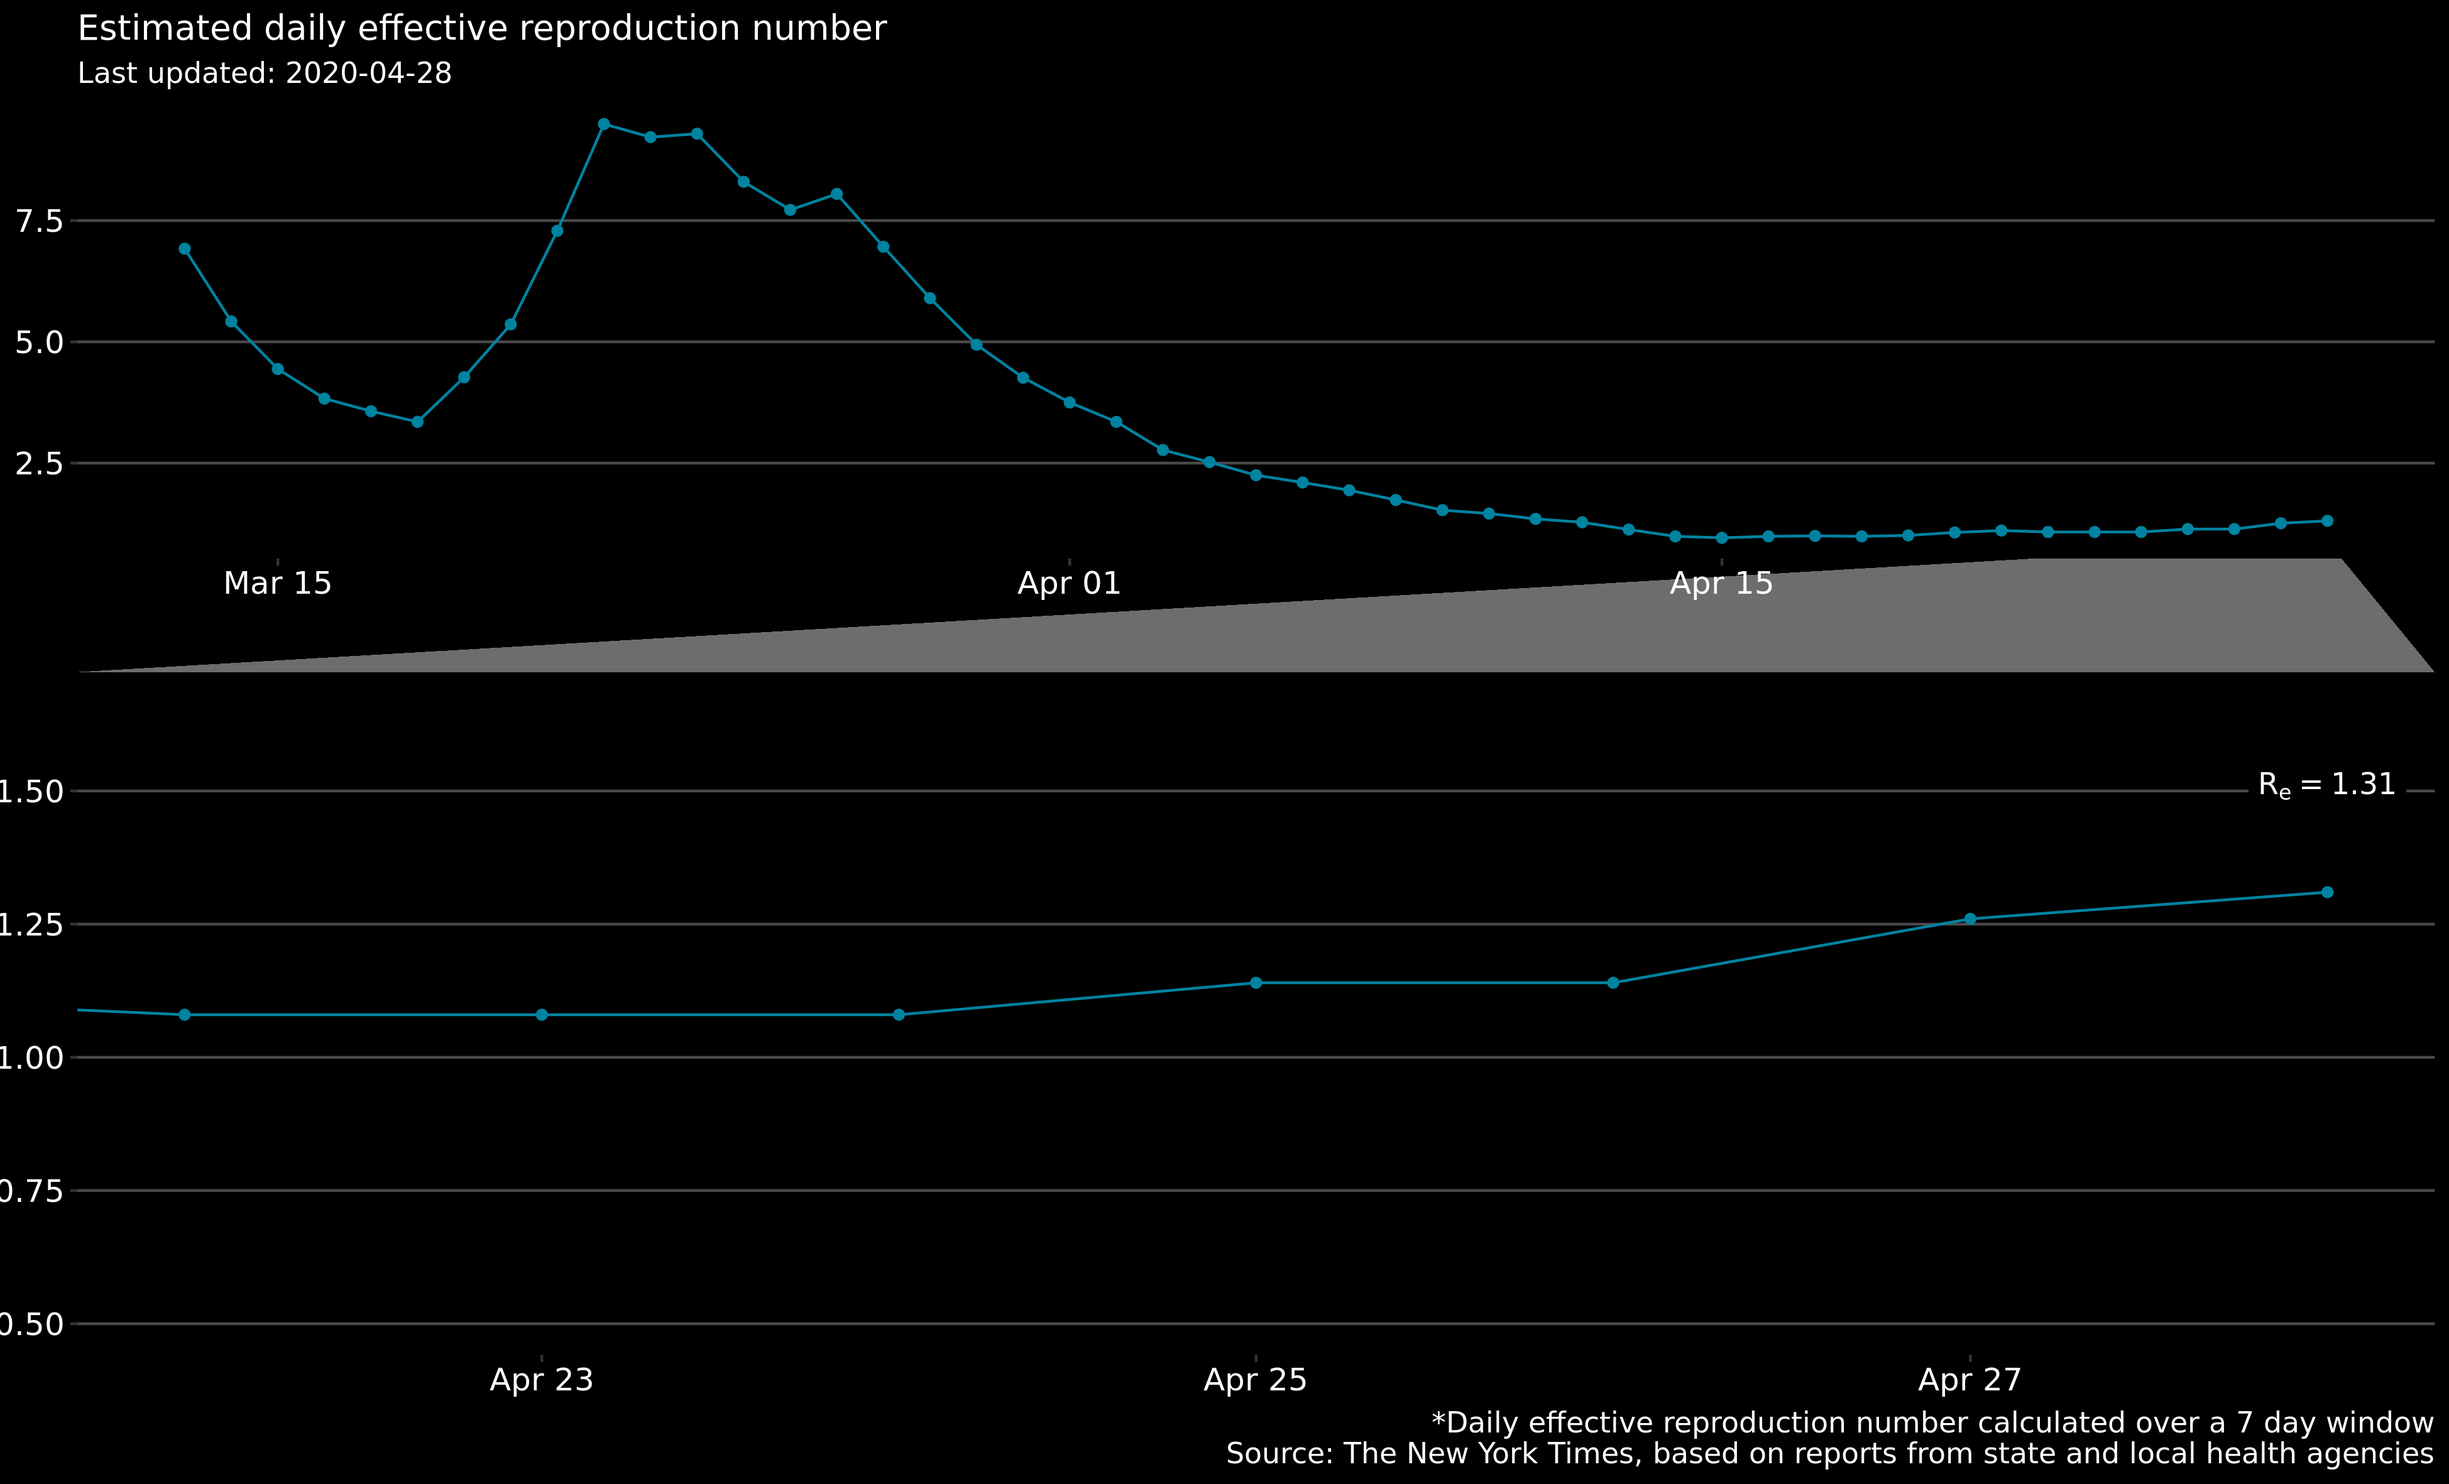
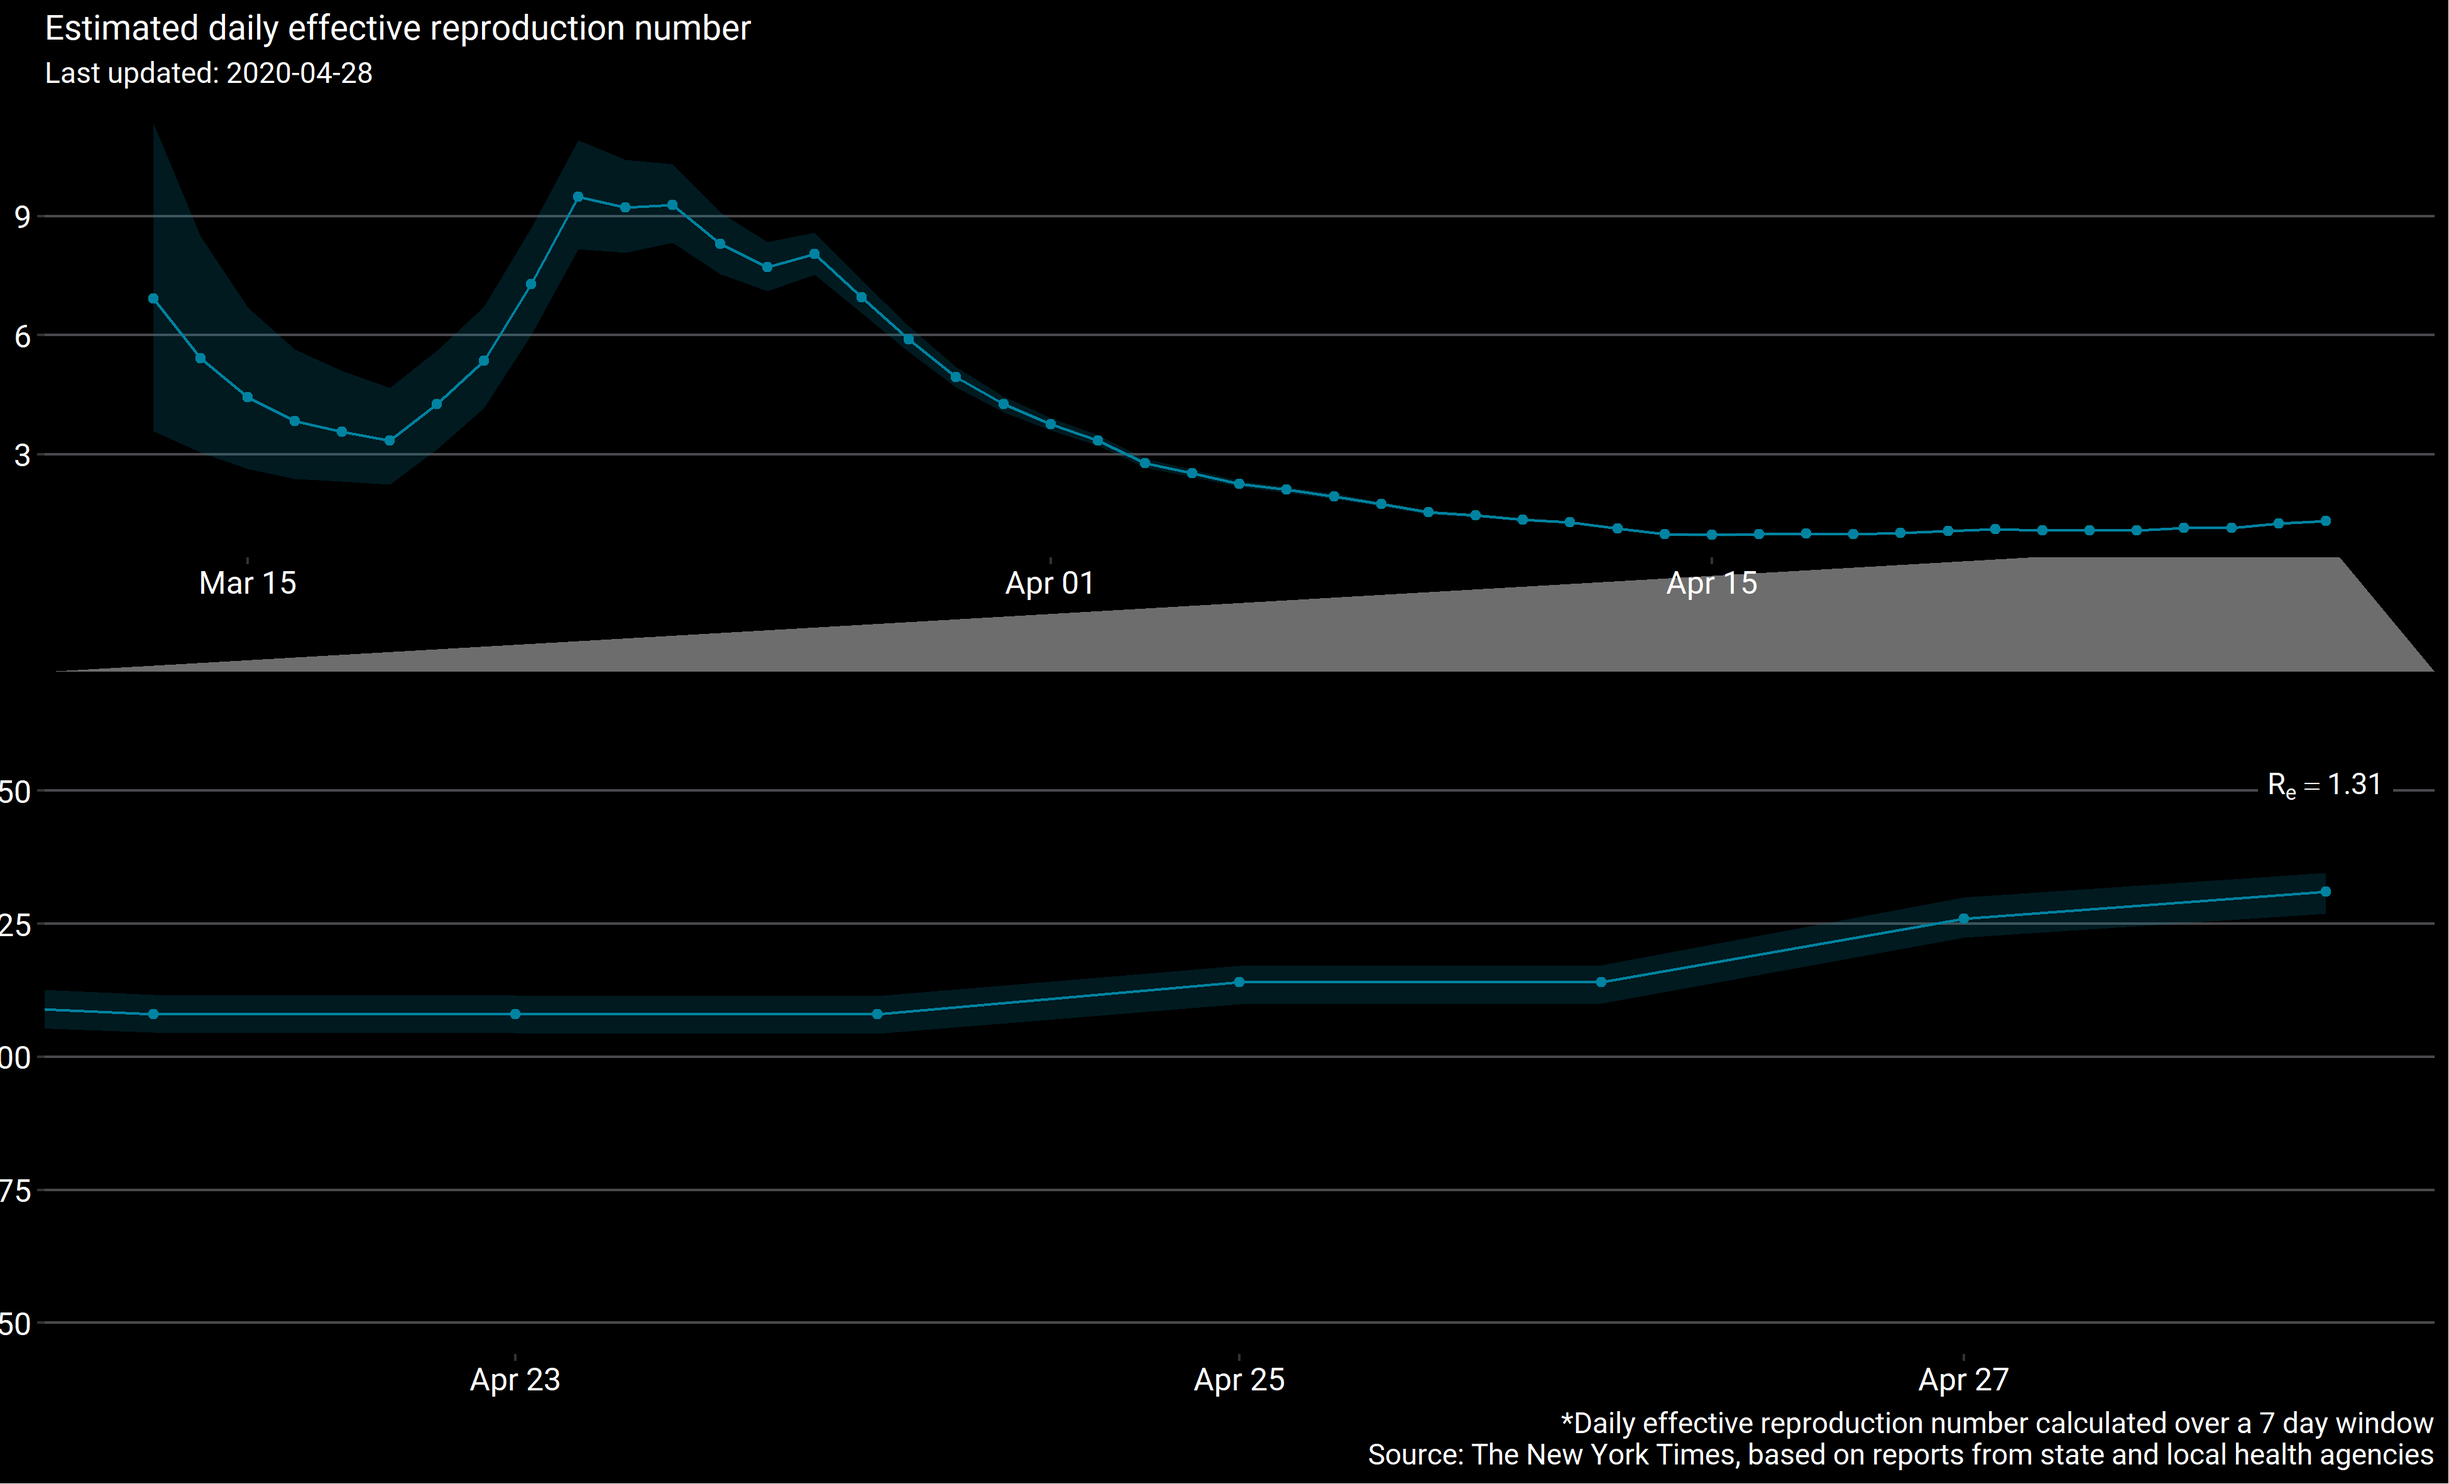
initial death-pyr, readme edits, R_e CIs

diff --git a/README.md b/README.md
@@ -97,11 +97,12 @@ comes from Julia Raifman, Kristen Nocka, et al at Boston University.
   - The instantaneous effective reproduction number, R<sub>e</sub> is an
     estimate of the average number of people that an infected person is
     spreading the virus to for that period.  
-  - Estimates slighly *lower* than 1 indicate that the spread of the
+  - Estimates *slighly lower* than 1 indicate that the spread of the
     virus is decreasing. Estimates *slightly larger* than 1 indicate a
     slow spread of the virus. Estimates of *2 or greater* mean the virus
     is spreading rapidly.  
-  - R<sub>e</sub> is estimated over a 7-day window.
+  - R<sub>e</sub> is estimated over a 7-day window, and the shaded area
+    shows the 95% credible interval.
   - Further details on this metric can be found at a research
     [site](https://cbdrh.github.io/ozcoviz/#national-level-r_t) set-up
     by South Western Sydney Clinical School and the Centre for Big Data
